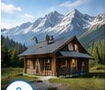
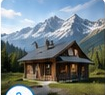
Ensure 1st and 2nd sections use seamless full images matching mockup

diff --git a/index.html b/index.html
@@ -206,10 +206,10 @@
 
         </div>
 
-        <!-- Right Machine Visual -->
+        <!-- Right Machine & Mountain Lake Landscape Visual -->
         <div class="lg:col-span-5 flex justify-center lg:justify-end reveal-init delay-200">
-          <div class="relative w-full max-w-lg rounded-2xl overflow-hidden shadow-2xl border border-sky-100/80 hover-lift">
-            <img src="assets/Photos/HERO banner 02.jpg" alt="Air to Water Generator" class="w-full h-auto object-cover rounded-2xl">
+          <div class="relative w-full max-w-lg animate-float-subtle">
+            <img src="assets/hero-machine.png" alt="Air to Water Generator with Mountain Lake Landscape" class="w-full h-auto object-contain">
           </div>
         </div>
 
@@ -457,10 +457,10 @@
     <div class="max-w-7xl mx-auto px-4 sm:px-6 lg:px-8">
       <div class="grid grid-cols-1 lg:grid-cols-12 gap-10 lg:gap-12 items-center">
         
-        <!-- Left Generator Hardware Showcase -->
+        <!-- Left Generator Hardware with Dynamic Water Splash -->
         <div class="lg:col-span-6 flex justify-center lg:justify-start relative reveal-init">
-          <div class="relative w-full max-w-[520px] rounded-2xl overflow-hidden shadow-xl border border-sky-100 hover-lift">
-            <img src="assets/Photos/banner 01.jpg" alt="Air to Water Generator Performance" class="w-full h-auto object-cover rounded-2xl">
+          <div class="relative w-full max-w-[480px]">
+            <img src="assets/performance-machine.png" alt="Generator Machine with Dynamic Water Splash" class="w-full h-auto object-contain">
           </div>
         </div>
 
